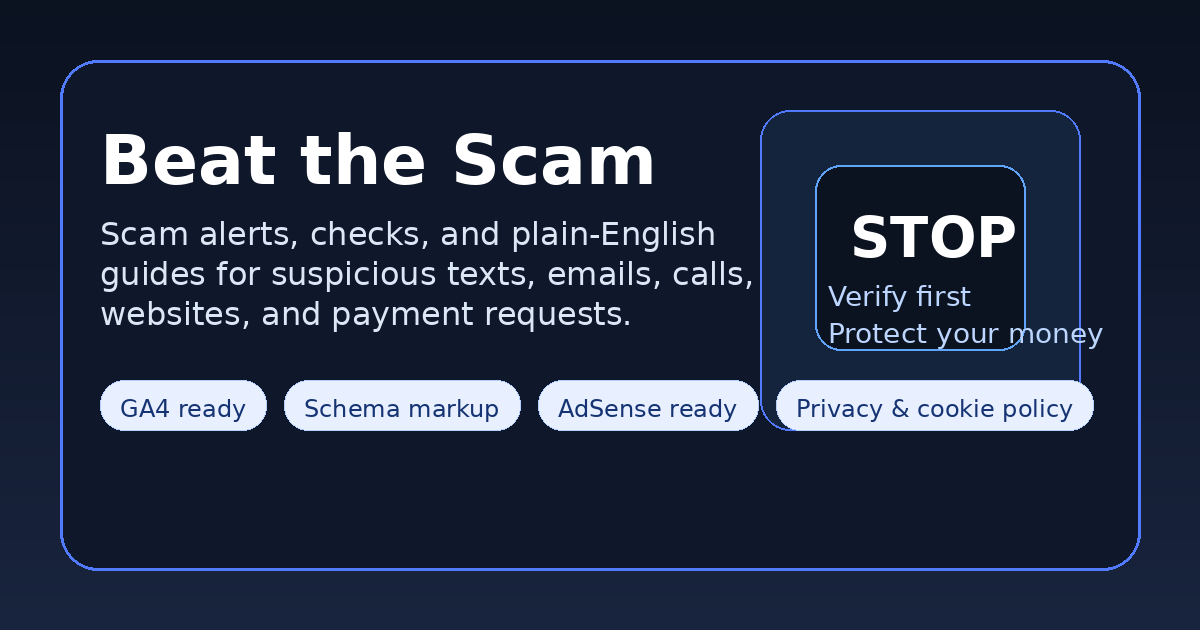
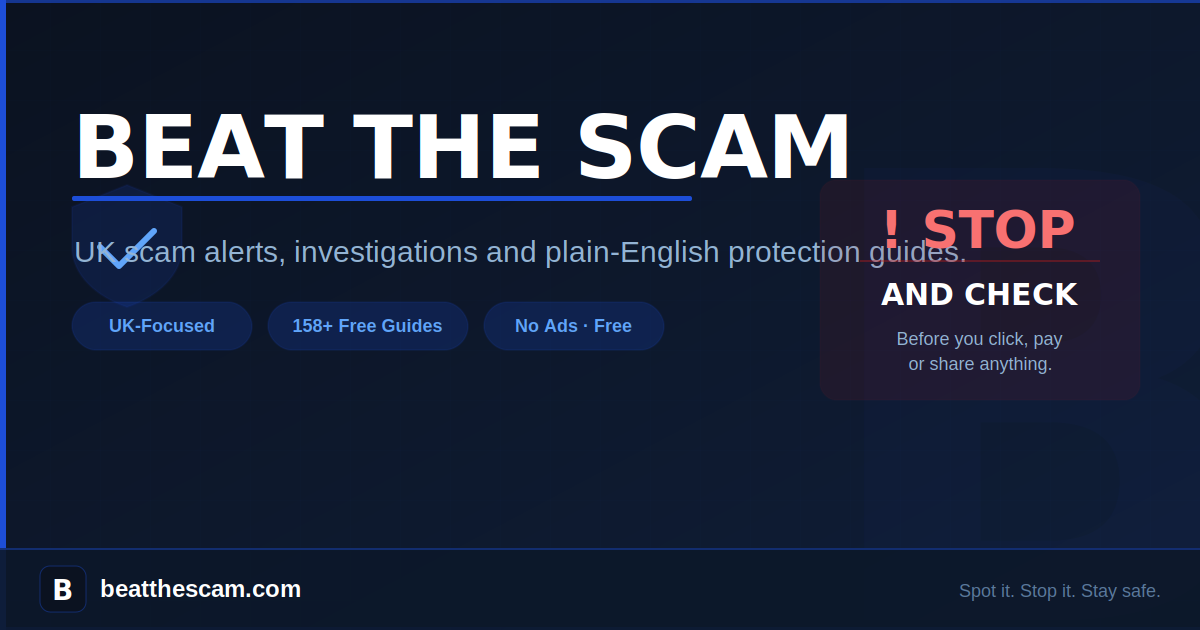
Replace developer OG image with proper branded version + add UTM tracking to tweet script
- og-image.png: removed 'GA4 ready / Schema markup / AdSense ready' developer badges
  replaced with clean branded image (Beat The Scam, tagline, beatthescam.com)
- tweet_new_articles.py: tweet URLs now include UTM parameters
  utm_source=twitter&utm_medium=social&utm_campaign=article

diff --git a/scripts/tweet_new_articles.py b/scripts/tweet_new_articles.py
@@ -77,7 +77,7 @@ def build_tweet(post: dict) -> str:
     description = post.get("description", post.get("hero", ""))
     slug        = post["slug"]
     category    = post.get("category", "fraud").lower()
-    url         = f"{SITE_DOMAIN}/guides/{slug}/"
+    url         = f"{SITE_DOMAIN}/guides/{slug}/?utm_source=twitter&utm_medium=social&utm_campaign=article"
     cat_tag     = CATEGORY_TAGS.get(category, "#ScamAlert")
     base_tags   = f"#ScamAlert #UKScam {cat_tag}"
 
